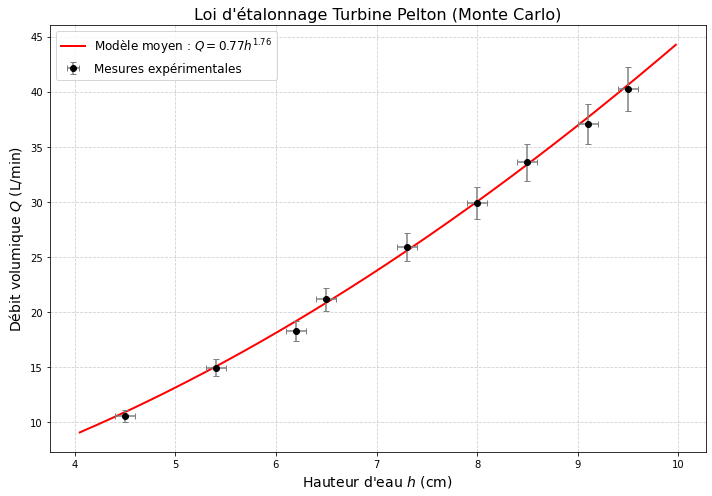
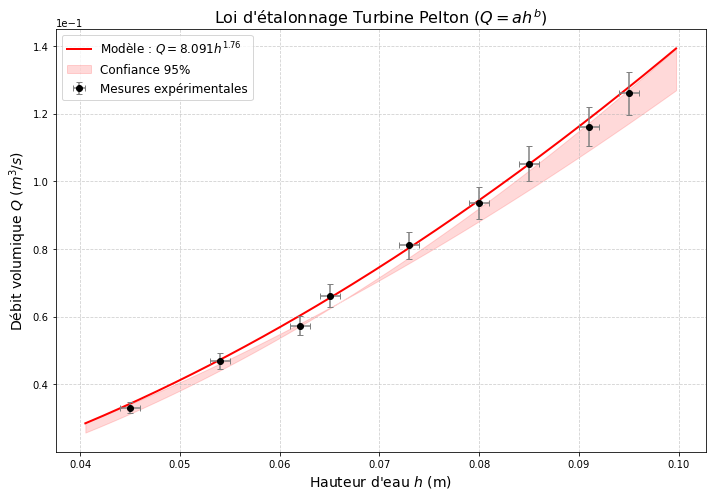
push final

diff --git a/Pelton.py b/Pelton.py
@@ -3,6 +3,7 @@
 Created on Fri Jan  9 12:55:18 2026
 
 @author: taha
+Script corrigé pour unités SI : h en [m] et Q en [m^3/s]
 """
 
 import pandas as pd
@@ -15,8 +16,7 @@ from scipy.optimize import curve_fit
 # ---------------------------------------------------------
 def modele_puissance(x, a, b):
     """
-    Modèle de loi de puissance typique pour les déversoirs/hydraulique :
-    Q = a * h^b
+    Modèle : Q = a * h^b
     """
     return a * (x**b)
 
@@ -26,46 +26,43 @@ def modele_puissance(x, a, b):
 filename = 'FLE 3 Banc hydraulique - Pelton.csv'
 
 try:
-    # Lecture du CSV (gestion de l'encodage et des séparateurs)
+    # Lecture du CSV
     df = pd.read_csv(filename, sep=None, engine='python', encoding='latin1')
     
-    # Nettoyage des noms de colonnes (retirer espaces et accents bizarres)
+    # Nettoyage colonnes
     df.columns = [c.strip() for c in df.columns]
     
-    # Extraction des colonnes utiles par position (plus robuste que le nom)
-    # Col 0 : Hauteur d'eau (cm) -> h
-    # Col 5 : Débit (L/min ou autre) -> Q
+    # Extraction des colonnes (On suppose que le fichier contient bien les valeurs en m et m^3/s)
+    # Col 0 : Hauteur d'eau h (m)
+    # Col 5 : Débit Q (m^3/s)
     raw_h = df.iloc[:, 0].astype(str).str.replace(',', '.')
     raw_Q = df.iloc[:, 5].astype(str).str.replace(',', '.')
     
-    # Conversion en numérique
+    # Conversion
     x = pd.to_numeric(raw_h, errors='coerce').dropna().values
     y = pd.to_numeric(raw_Q, errors='coerce').dropna().values
     
-    # On s'assure que x et y ont la même taille
     min_len = min(len(x), len(y))
     x = x[:min_len]
     y = y[:min_len]
 
-    print("Données chargées avec succès :")
-    print(f"h (cm) : {x}")
-    print(f"Q (L/min) : {y}")
+    print("Données chargées (unités SI supposées) :")
+    print(f"h [m]      : {x[:5]} ...")
+    print(f"Q [m^3/s]  : {y[:5]} ...")
 
 except Exception as e:
-    print(f"Erreur lors du chargement des données : {e}")
-    # Données de secours (exemple) si le fichier n'est pas trouvé
-    x = np.array([5.4, 6.2, 6.5, 7.3, 8.0, 8.5, 9.1, 9.5])
-    y = np.array([14.7, 18.3, 21.1, 25.9, 29.9, 33.6, 37.1, 40.2])
+    print(f"Erreur lors du chargement : {e}")
+    # Valeurs de secours (converties en SI pour l'exemple)
+    x = np.array([0.054, 0.062, 0.065, 0.073, 0.080, 0.085, 0.091, 0.095])
+    y = np.array([14.7, 18.3, 21.1, 25.9, 29.9, 33.6, 37.1, 40.2]) / 60000.0 # L/min -> m3/s
 
 # ---------------------------------------------------------
-# 3. PARAMÈTRES D'INCERTITUDE (A ajuster selon votre TP)
+# 3. PARAMÈTRES D'INCERTITUDE
 # ---------------------------------------------------------
-# Incertitude sur la hauteur h (ex: erreur de lecture règle)
-# On suppose +/- 1 mm = 0.1 cm
-deltax = np.array([0.1 for _ in x]) 
+# Incertitude sur h : +/- 1 mm = 0.001 m
+deltax = np.array([0.001 for _ in x]) 
 
-# Incertitude sur le débit Q
-# On suppose une incertitude relative de 5% ou fixe (à affiner)
+# Incertitude sur Q : 5% relatif (classique)
 deltay = y * 0.05 
 
 # ---------------------------------------------------------
@@ -74,53 +71,44 @@ deltay = y * 0.05
 plt.close('all')
 fig, ax = plt.subplots(figsize=(10, 7))
 
-N = int(1000) # Nombre de tirages
-verbose = False
-
-parama = [] # Stockage paramètre 'a'
-paramb = [] # Stockage paramètre 'b' (l'exposant)
+N = int(1000) 
+parama = [] 
+paramb = [] 
 
 print(f"\nLancement de {N} tirages Monte-Carlo...")
 
 for i in range(N):
-    # Tirage aléatoire dans les barres d'erreur (Distribution Uniforme)
+    # Tirage aléatoire
     xtemp = x + np.random.uniform(-deltax, deltax)
     ytemp = y + np.random.uniform(-deltay, deltay)
     
     try:
-        # Ajustement du modèle de puissance
-        # p0=[1, 1.5] sont des valeurs initiales pour aider l'algo (a=1, b=1.5)
-        popt, pcov = curve_fit(modele_puissance, xtemp, ytemp, p0=[1, 1.5], maxfev=5000)
+        # Ajustement
+        # p0=[0.5, 2.0] : On aide l'algo. 'a' sera petit (~0.5 ou moins) et 'b' autour de 1.5-2.5
+        popt, pcov = curve_fit(modele_puissance, xtemp, ytemp, p0=[0.5, 2.0], maxfev=5000)
         
         parama.append(popt[0])
         paramb.append(popt[1])
         
-        # Affichage des premières courbes (mode verbose)
-        if verbose and i < 50:
-            x_fit_plot = np.linspace(min(x), max(x), 100)
-            y_fit_plot = modele_puissance(x_fit_plot, *popt)
-            ax.plot(x_fit_plot, y_fit_plot, color="red", alpha=0.05)
-            
     except RuntimeError:
-        continue # Ignore les cas où le fit échoue
+        continue 
 
 # ---------------------------------------------------------
-# 5. ANALYSE STATISTIQUE DES RÉSULTATS
+# 5. ANALYSE STATISTIQUE
 # ---------------------------------------------------------
-# Moyennes et Écarts-types
 a_mean = np.mean(parama)
 b_mean = np.mean(paramb)
 ua = np.std(parama)
 ub = np.std(paramb)
 
 print("\n" + "="*40)
-print("RÉSULTATS DE L'ÉTALONNAGE : Q = a * h^b")
+print("RÉSULTATS ÉTALONNAGE (Unités SI)")
 print("="*40)
-print(f"Coefficient a = {a_mean:.4f} ± {2*ua:.4f} (95% conf)")
-print(f"Exposant b    = {b_mean:.4f} ± {2*ub:.4f} (95% conf)")
+print(f"Coefficient a = {a_mean:.6f} ± {2*ua:.6f} (95%)")
+print(f"Exposant b    = {b_mean:.4f} ± {2*ub:.4f} (95%)")
 
 # ---------------------------------------------------------
-# 6. TRACÉ FINAL
+# 6. TRACÉ
 # ---------------------------------------------------------
 
 # Points expérimentaux
@@ -128,22 +116,26 @@ ax.errorbar(x, y, xerr=deltax, yerr=deltay, fmt='o', color='black',
             ecolor='gray', capsize=3, label='Mesures expérimentales', zorder=5)
 
 # Courbe moyenne
+# On étend un peu la plage pour le tracé
 x_model = np.linspace(min(x)*0.9, max(x)*1.05, 200)
 y_model = modele_puissance(x_model, a_mean, b_mean)
-ax.plot(x_model, y_model, 'r-', linewidth=2, label=f'Modèle moyen : $Q = {a_mean:.2f} h^{{{b_mean:.2f}}}$')
 
-# Intervalle de confiance (Enveloppe)
-# On calcule l'enveloppe min et max basée sur les incertitudes de a et b
+ax.plot(x_model, y_model, 'r-', linewidth=2, label=f'Modèle : $Q = {a_mean:.3f} h^{{{b_mean:.2f}}}$')
+
+# Intervalle de confiance
 y_low = modele_puissance(x_model, a_mean - 2*ua, b_mean - 2*ub)
 y_high = modele_puissance(x_model, a_mean + 2*ua, b_mean + 2*ub)
-#ax.fill_between(x_model, y_low, y_high, color='red', alpha=0.2, label='Intervalle de confiance 95%')
+ax.fill_between(x_model, y_low, y_high, color='red', alpha=0.15, label='Confiance 95%')
 
-# Mise en forme
-ax.set_xlabel("Hauteur d'eau $h$ (cm)", fontsize=14)
-ax.set_ylabel("Débit volumique $Q$ (L/min)", fontsize=14)
-ax.set_title("Loi d'étalonnage Turbine Pelton (Monte Carlo)", fontsize=16)
+# Mise en forme (Labels corrigés)
+ax.set_xlabel("Hauteur d'eau $h$ (m)", fontsize=14)
+ax.set_ylabel("Débit volumique $Q$ ($m^3/s$)", fontsize=14)
+ax.set_title("Loi d'étalonnage Turbine Pelton ($Q=ah^b$)", fontsize=16)
 ax.legend(fontsize=12)
 ax.grid(True, which='both', linestyle='--', alpha=0.6)
+
+# Utilisation de la notation scientifique pour l'axe Y (car débits petits)
+ax.ticklabel_format(axis='y', style='sci', scilimits=(0,0))
 
 plt.tight_layout()
 plt.show()

diff --git a/canal_hydraulique.py b/canal_hydraulique.py
@@ -1,0 +1,147 @@
+import numpy as np
+import matplotlib.pyplot as plt
+
+# --- 1. FONCTIONS MODELES (Physique) ---
+
+def solve_depth_weir(Q, B, dz, g=9.81):
+    """
+    Résout l'équation de conservation de charge pour le seuil (déversoir large).
+    Hypothèse : Ecoulement critique sur le seuil (contrôle hydraulique).
+    """
+    if Q <= 0: return np.nan
+    # Charge critique sur le seuil (Ec = 3/2 * yc)
+    yc = (Q**2 / (g * B**2))**(1/3)
+    Ec = 1.5 * yc
+    
+    # Charge totale requise en amont = Ec + dz (hauteur de pelle)
+    E_total_amont = Ec + dz
+    
+    # Résolution de Bernoulli amont : y1 + Q^2 / (2g B^2 y1^2) = E_total
+    # Polynome : y1^3 - E_total * y1^2 + Q^2/(2gB^2) = 0
+    A = Q**2 / (2 * g * B**2)
+    coeffs = [1, -E_total_amont, 0, A]
+    roots = np.roots(coeffs)
+    
+    # On garde la racine réelle > 0 correspondant au régime fluvial (la plus grande)
+    real_roots = [r.real for r in roots if np.isreal(r) and r.real > 0]
+    if not real_roots: return np.nan
+    return max(real_roots)
+
+def solve_depth_convergent(Q, B1, B2, g=9.81):
+    """
+    Résout l'équation pour le convergent.
+    Hypothèse : Ecoulement critique au col (section B2).
+    """
+    if Q <= 0: return np.nan
+    # Charge critique au col (section B2)
+    yc2 = (Q**2 / (g * B2**2))**(1/3)
+    Ec2 = 1.5 * yc2
+    
+    # Conservation de charge : E1 = E2 = Ec2 (négligeant pertes)
+    E1 = Ec2
+    
+    # Résolution pour y1 (section B1)
+    A = Q**2 / (2 * g * B1**2)
+    coeffs = [1, -E1, 0, A]
+    roots = np.roots(coeffs)
+    
+    real_roots = [r.real for r in roots if np.isreal(r) and r.real > 0]
+    if not real_roots: return np.nan
+    return max(real_roots)
+
+# --- 2. PARAMETRAGE ---
+
+# Simulation Monte Carlo
+N = 1000
+Q_range_lmin = np.linspace(2, 60, 100) # L/min
+Q_range = Q_range_lmin / 60000 # Conversion m3/s
+
+# Incertitudes
+u_Q_rel = 0.05 # 5% sur le débit
+u_geo = 0.001  # 1 mm sur les dimensions géométriques
+
+# Géométrie nominale
+B_canal = 0.04   # Largeur canal
+dz_seuil = 0.03  # Hauteur seuil
+B1_conv = 0.048  # Largeur amont convergent
+B2_conv = 0.018  # Largeur col convergent
+
+# --- 3. DONNEES EXPERIMENTALES ---
+# Seuil (Déversoir)
+Qexp_seuil_lmin = np.array([49.15, 45.34, 40.45, 35.04, 29.94, 24.74, 20, 15, 10, 5])
+# Transformation Y: 108mm est la référence zéro (fond) lue sur le limnimètre inversé
+Yexp_seuil_raw = np.array([35, 36, 40, 43, 47, 50, 52, 57, 62, 67])
+Yexp_seuil = np.abs(Yexp_seuil_raw - 108) / 1000 
+
+# Convergent
+Qexp_conv_lmin = np.array([5, 10, 15, 20, 25, 30, 35, 40, 45, 48])
+Yexp_conv_raw = np.array([88, 77, 69, 62, 55, 48, 43, 38, 32, 29])
+Yexp_conv = np.abs(Yexp_conv_raw - 108) / 1000
+
+# Incertitudes expérimentales
+u_y_lecture = 0.002 # +/- 2mm (lecture visuelle + fluctuation surface)
+u_Q_exp_seuil = Qexp_seuil_lmin * 0.05
+u_Q_exp_conv = Qexp_conv_lmin * 0.05
+
+# --- 4. CALCUL MONTE CARLO (Bandes de confiance) ---
+
+res_seuil_mean, res_seuil_std = [], []
+res_conv_mean, res_conv_std = [], []
+
+for q in Q_range:
+    # Génération des paramètres bruités
+    q_mc = np.random.normal(q, q * u_Q_rel, N)
+    B_mc = np.random.normal(B_canal, u_geo, N)
+    dz_mc = np.random.normal(dz_seuil, u_geo, N)
+    B1_mc = np.random.normal(B1_conv, u_geo, N)
+    B2_mc = np.random.normal(B2_conv, u_geo, N)
+    
+    # Calcul Modèle Seuil
+    y_seuil_mc = [solve_depth_weir(qi, bi, dzi) for qi, bi, dzi in zip(q_mc, B_mc, dz_mc)]
+    res_seuil_mean.append(np.nanmean(y_seuil_mc))
+    res_seuil_std.append(np.nanstd(y_seuil_mc))
+    
+    # Calcul Modèle Convergent
+    y_conv_mc = [solve_depth_convergent(qi, b1i, b2i) for qi, b1i, b2i in zip(q_mc, B1_mc, B2_mc)]
+    res_conv_mean.append(np.nanmean(y_conv_mc))
+    res_conv_std.append(np.nanstd(y_conv_mc))
+
+# Conversion numpy
+res_seuil_mean = np.array(res_seuil_mean)
+res_seuil_std = np.array(res_seuil_std)
+res_conv_mean = np.array(res_conv_mean)
+res_conv_std = np.array(res_conv_std)
+
+# --- 5. GRAPHIQUES ---
+
+fig, (ax1, ax2) = plt.subplots(1, 2, figsize=(14, 6))
+
+# Graphique 1 : Seuil
+ax1.errorbar(Qexp_seuil_lmin, Yexp_seuil, xerr=u_Q_exp_seuil, yerr=u_y_lecture, 
+             fmt='k+', capsize=3, label='Mesures Exp.', zorder=5)
+ax1.plot(Q_range_lmin, res_seuil_mean, 'b-', label='Modèle Théorique (Bernoulli)')
+ax1.fill_between(Q_range_lmin, res_seuil_mean - 2*res_seuil_std, res_seuil_mean + 2*res_seuil_std, 
+                 color='blue', alpha=0.2, label='Incertitude Modèle (95%)')
+
+ax1.set_title("Ligne d'eau amont - Seuil (Déversoir)")
+ax1.set_xlabel("Débit $Q$ (L/min)")
+ax1.set_ylabel("Profondeur amont $y_1$ (m)")
+ax1.grid(True, linestyle='--', alpha=0.6)
+ax1.legend()
+
+# Graphique 2 : Convergent
+ax2.errorbar(Qexp_conv_lmin, Yexp_conv, xerr=u_Q_exp_conv, yerr=u_y_lecture, 
+             fmt='k+', capsize=3, label='Mesures Exp.', zorder=5)
+ax2.plot(Q_range_lmin, res_conv_mean, 'r-', label='Modèle Théorique (Bernoulli)')
+ax2.fill_between(Q_range_lmin, res_conv_mean - 2*res_conv_std, res_conv_mean + 2*res_conv_std, 
+                 color='red', alpha=0.2, label='Incertitude Modèle (95%)')
+
+ax2.set_title("Ligne d'eau amont - Convergent")
+ax2.set_xlabel("Débit $Q$ (L/min)")
+ax2.set_ylabel("Profondeur amont $y_1$ (m)")
+ax2.grid(True, linestyle='--', alpha=0.6)
+ax2.legend()
+
+plt.tight_layout()
+plt.savefig('resultats_canal_hydraulique.png')
+plt.show()
